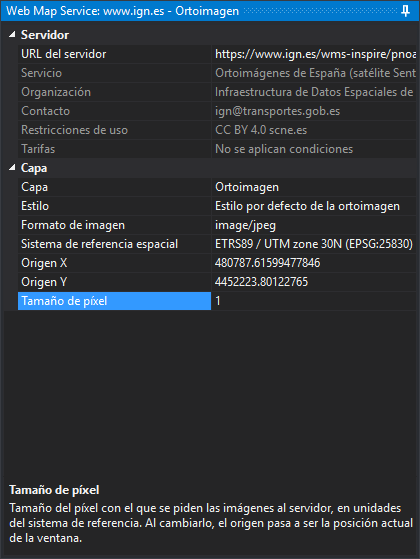
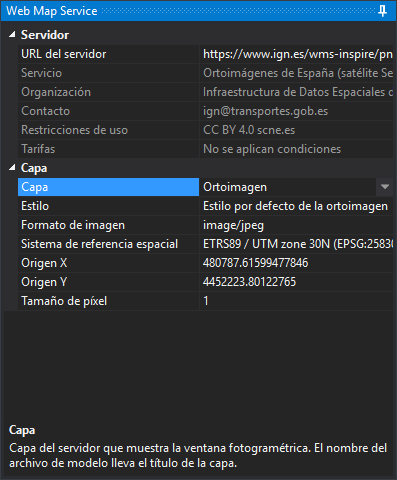
Capturas de los paneles WMS y WMTS con el título nuevo
El título del panel es solo el nombre del sensor. Se añade la captura del panel Web Map Tile Service.

Changed region(s): [[0.0, 0.0, 0.9975, 0.6562], [0.0, 0.8438, 0.9975, 1.0]]

diff --git a/src/digi3d-ai/referencia/ventana-fotogrametrica/sensores/wmts.md b/src/digi3d-ai/referencia/ventana-fotogrametrica/sensores/wmts.md
@@ -44,6 +44,8 @@ Los modelos creados con versiones anteriores se abren igual.
 
 Al abrir el modelo, Digi3D.AI acopla a la derecha de la ventana principal el panel **Web Map Tile Service**. Cada ventana fotogramétrica de un modelo Web Map Tile Service tiene su propio panel, que se cierra con ella. Los cambios que haces en el panel se aplican a la ventana fotogramétrica y se guardan en el archivo de modelo en ese momento.
 
+![Panel Web Map Tile Service con la capa de imágenes de satélite Sentinel y ortofotos del PNOA](../../../../images/sensor-wmts-panel.png)
+
 ### Servidor
 
 | Propiedad | Descripción |
